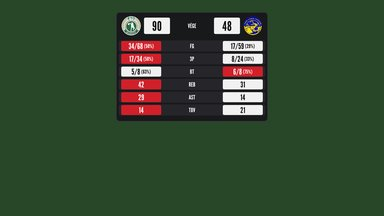
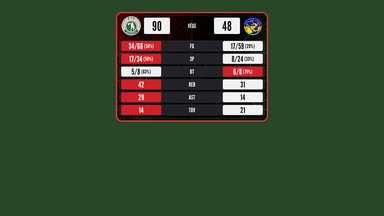
Live team comparison: PlayByPlay court + league outlined box as the background
Claude-Session: https://claude.ai/code/session_01UoqXCv4cjcXddUm9gUF1QF

diff --git a/graphics/js/templates.js b/graphics/js/templates.js
@@ -629,7 +629,7 @@ function liveEntry(id, league) {
 }
 
 // ───────────────────────── Élő csapat-összevetés (live team comparison) ─────────────────────────
-// Styled like the broadcaster's own score bug (owner's screenshots of the feed): dark glossy bar, team logos instead of the abbreviations, the score in a
+// Styled like the broadcaster's own score bug (owner's screenshots of the feed) on the PlayByPlay court with the league's outlined box: dark glossy strips, team logos instead of the abbreviations, the score in a
 // white box with black digits next to each logo, a period / clock line in the middle, then one dark strip per ticked statistic with the two values in
 // white boxes and the name between them; the better value is marked in red. League Gothic only (project rule).
 export const LIVE_TEAM_STATS = [ // canonical order; shoot = made/attempted with the percentage in ( ); low = a lower value is the better one
@@ -652,7 +652,7 @@ function liveTeamTpl(id, league, keysIn) {
   const txt = (size, extra) => ({ type: 'text', size, tracking: 20, color: C.text, opacity: op, adjust: true, align: 'center', ...extra });
   const box = (idv, label, group, bx, by, bw, bh, extra) => ({ id: idv, type: 'framed', label, group, box: [bx + bw / 2, by + bh / 2, bw, bh], fill: C.box, sw: 0, r: 7, opacity: op, ...extra });
   const els = [
-    { id: 'panel', type: 'framed', label: 'Panel (háttér)', group: 'Panel', box: [x + w / 2, y + h / 2, w, h], fill: C.bar, stroke: C.edge, sw: 3, r: 18, useBase: true, opacity: 0.965, fixedFrame: true, lockAspect: false },
+    panelFrame(league, x, y, w, h), // the PlayByPlay court (red-black-green) with the league's outlined box, like every other graphic
   ];
   // header: logo + white score box on each side, period / clock in the middle
   const hy = y + 22, hh = 94, sb = 130;
@@ -669,7 +669,7 @@ function liveTeamTpl(id, league, keysIn) {
     const d = LIVE_TEAM_STATS.find(q => q.key === k), ry = y + LT.head + i * ROW, g = `${i + 1}. statisztika`, bh = ROW - 14, by = ry + 7, cy = by + bh / 2;
     const lx = x + LT.pad, rx = x + w - LT.pad - LT.box;
     els.push(
-      { id: `r${i}.bg`, type: 'framed', label: `${d.label} – sáv`, group: g, box: [x + w / 2, ry + ROW / 2, w - 2 * 14, ROW - 8], fill: C.strip, sw: 0, r: 10, opacity: op },
+      { id: `r${i}.bg`, type: 'framed', label: `${d.label} – sáv`, group: g, box: [x + w / 2, ry + ROW / 2, w - 2 * 14, ROW - 8], fill: C.strip, sw: 0, r: 10, opacity: 0.9 },
       box(`r${i}.h.box`, `${d.label} – hazai doboz`, g, lx, by, LT.box, bh),
       txt(40, { id: `r${i}.h`, label: `${d.label} – hazai`, group: g, x: lx + LT.box / 2, y: cy + 0.3715 * 40, runs: true, color: C.digit, maxWidth: LT.box - 14, minScale: 0.5 }),
       txt(30, { id: `r${i}.label`, label: `${d.label} – felirat`, group: g, x: x + w / 2, y: cy + 0.3715 * 30, maxWidth: w - 2 * (LT.pad + LT.box) - 16, minScale: 0.6 }),
@@ -679,7 +679,7 @@ function liveTeamTpl(id, league, keysIn) {
   });
   const t = base(id, league, 'liveteam', 'Élő csapat-összevetés (saját)', 'Élő csapat-összevetés', { elements: els, background: null, reference: null, thumb: `templates/${id}/thumb.jpg` });
   t.panel = { box: [x, y, x + w, y + h], alpha: 0.965 };
-  t.inner = { box: [x + 3, y + 3, x + w - 3, y + h - 3], r: 15 };
+  t.inner = { box: [x + 8, y + 8, x + w - 8, y + h - 8], r: 22 };
   t.liveTeam = { keys };
   return t;
 }

diff --git a/DESIGN-SYSTEM.md b/DESIGN-SYSTEM.md
@@ -31,7 +31,7 @@ Text outlines: 3–4 px (PSD stroke), club logos carry the white outline stored 
 - **Head to head (LOCKED look):** rows of date · home badge · score · away badge, newest first, up to 6 rows (regular season, playoff and cup meetings; playoff / cup rows carry **(Playoff)** / **(Magyar Kupa)** under the date (centred on the middle of the date), half its size, the date moves up 8 px; regular season rows have no label); the frame height follows the number of rows; the score is green (`#1fbf1b`) when the match's home team won that meeting, red (`#ec4036`) when it lost.
 - **Broadcast score bug zone (LOCKED, owner 2026-11-24):** the live feed we commentate on carries the broadcaster's score bug in the **bottom-right** corner, in two versions: the **large** one (x 1213–1887 / y 931–1045, 115 px tall, with the credit line below it ≈ 139 px together) is used on the broadcasts of **ETO Basket and Falco only** – the difference is the **origin of the feed** (they produce with hand cameras, everyone else with the automated production), not the venue – every other partner has the **small** one (x 1425–1874 / y 958–1034, 77 px tall, with the credit line below it down to ≈ 1051 = ≈ 93 px together). Our graphics must not cover it: keep-out zones `BUG.large` x ≥ 1200, y ≥ 925 and `BUG.small` x ≥ 1410, y ≥ 945 (`templates.js`; the large zone contains the small one, so it is used when the host is unknown). The studio picks the size from the host club of the chosen match / live game (setting *Eredményjelző*: automatikus / nagy / kicsi / nincs) and **fits every graphic out of the zone automatically** (`safeFit` in `layout.js`, applied by the engine through the global transform): the smallest visual change wins – shift up, shift left, or a slight shrink about the panel's top-left corner (currently ≤ 6.7 %, most graphics ≤ 2.5 % or untouched). The preview can show the zone as a hatched guide (never exported). Graphics that do not reach the zone (roster, team statistics, form, head to head, …) are not changed.
 - **Live player insert (strip, owner 2026-11-24, height version "B"):** basic 606 × 150 px, shooting 606 × 140, full row 1032 × 130; court frame with 3 px outline. Left to right: official roster photo (120 px column), the **name** (surname in capitals) **centred on the middle of the figures row** with the figures and their category labels under it, and the **club logo (100 px)** centred in the right column. **Colours:** name and category labels share one colour (white `#ffffff`), the numbers are **gold `#ffc929`** (`LIVE_COLORS`); all with a black outline. **No status line under the name** (the broadcast's own score bug shows score and period). Placement: on the score bug's level and centred in the gap between the left edge of the picture and the score bug: **x-centre 600 on ETO Basket / Falco broadcasts (large bug), x-centre 712 everywhere else (small bug)**, y-centre ≈ 988 / 995 (kept 20 px inside the picture, so about 985 for the 150 px strip); alternative: top-left. Height can not simply be doubled: centred on the small bug's midline (995) a strip taller than ≈ 130 px would leave the picture.
-- **Live team comparison (`liveteam`, owner 2026-11-24, REVIEW):** copies the broadcaster's score bug (screenshots of the feed): panel `#17171a` with a `#3b3b40` 3 px edge (radius 18), strips `#26262a`, value / score boxes `#f4f4f4` with near-black digits (radius 7), the better value in red `#d4202b` with white digits, white captions; 760 px wide, header 138 px (logos 96 px, score boxes 130 px), rows 64 px (54 px above 9 stats); shooting values `made/att (xx%)` with the percentage at 2/3 size, vertically centred. League Gothic only; no court texture and no league outline colour on this one (it mirrors the score bug, not the PSD frames).
+- **Live team comparison (`liveteam`, owner 2026-11-24, REVIEW):** copies the broadcaster's score bug (screenshots of the feed): the standard court frame (PlayByPlay red-black-green court + league outline, as all panels) with strips `#26262a` (90 % opaque), value / score boxes `#f4f4f4` with near-black digits (radius 7), the better value in red `#d4202b` with white digits, white captions; 760 px wide, header 138 px (logos 96 px, score boxes 130 px), rows 64 px (54 px above 9 stats); shooting values `made/att (xx%)` with the percentage at 2/3 size, vertically centred. League Gothic only.
 - **Coach interview graphic (owner's PSD "Hegedűs ITW BEAC előtt - 0924", built 2026-11-24):** large court frame (45,14–1455,944, stroke 8 px, radius 25, outline colour per league); the coach's cut-out photo on the left (570 × 895 box, standing on the frame's bottom edge, always an upload); the **quote** on the right (League Gothic 45.8 px, squeezed to 83 % width exactly like the PSD's 1.786 × 2.142 stretch, 58.3 px line spacing, tracking 10, white with a 4 px black outline, 963 px wide, up to 13 lines – longer text **shrinks to fit**, down to 45 %); **small caps** (lower-case letters as capitals at 80 %, as in the PSD) or plain capitals, selectable; the **name** in capitals (108 px, black `#010101` with a 4 px **white** outline, baseline 873.25), the subtitle in capitals (45.8 px, white, 3 px black outline, baseline 927), the club logo (124 px) bottom right, and the Hunbasket · Tippmix · **Play by Play** strip under the frame (`templates/coach/strip.png`, taken from the PSD). Name and logo come from the Hunbasket team page (head coach), the subtitle is a suggestion from the next game ("<ellenfél> elleni mérkőzés előtt"), the quote is typed / pasted. Fitted out of the score bug zone like every big graphic.
 - **Player cards (photo roster):** photo, jersey number top-left, flag top-right on the number's centre line, surname in capitals, position · height line in red; name order rule in MANIFEST.md.
 - **Key players:** values and ranks mirrored around the label column, rank rows on the value baseline, photo (or club logo) behind the numbers.
